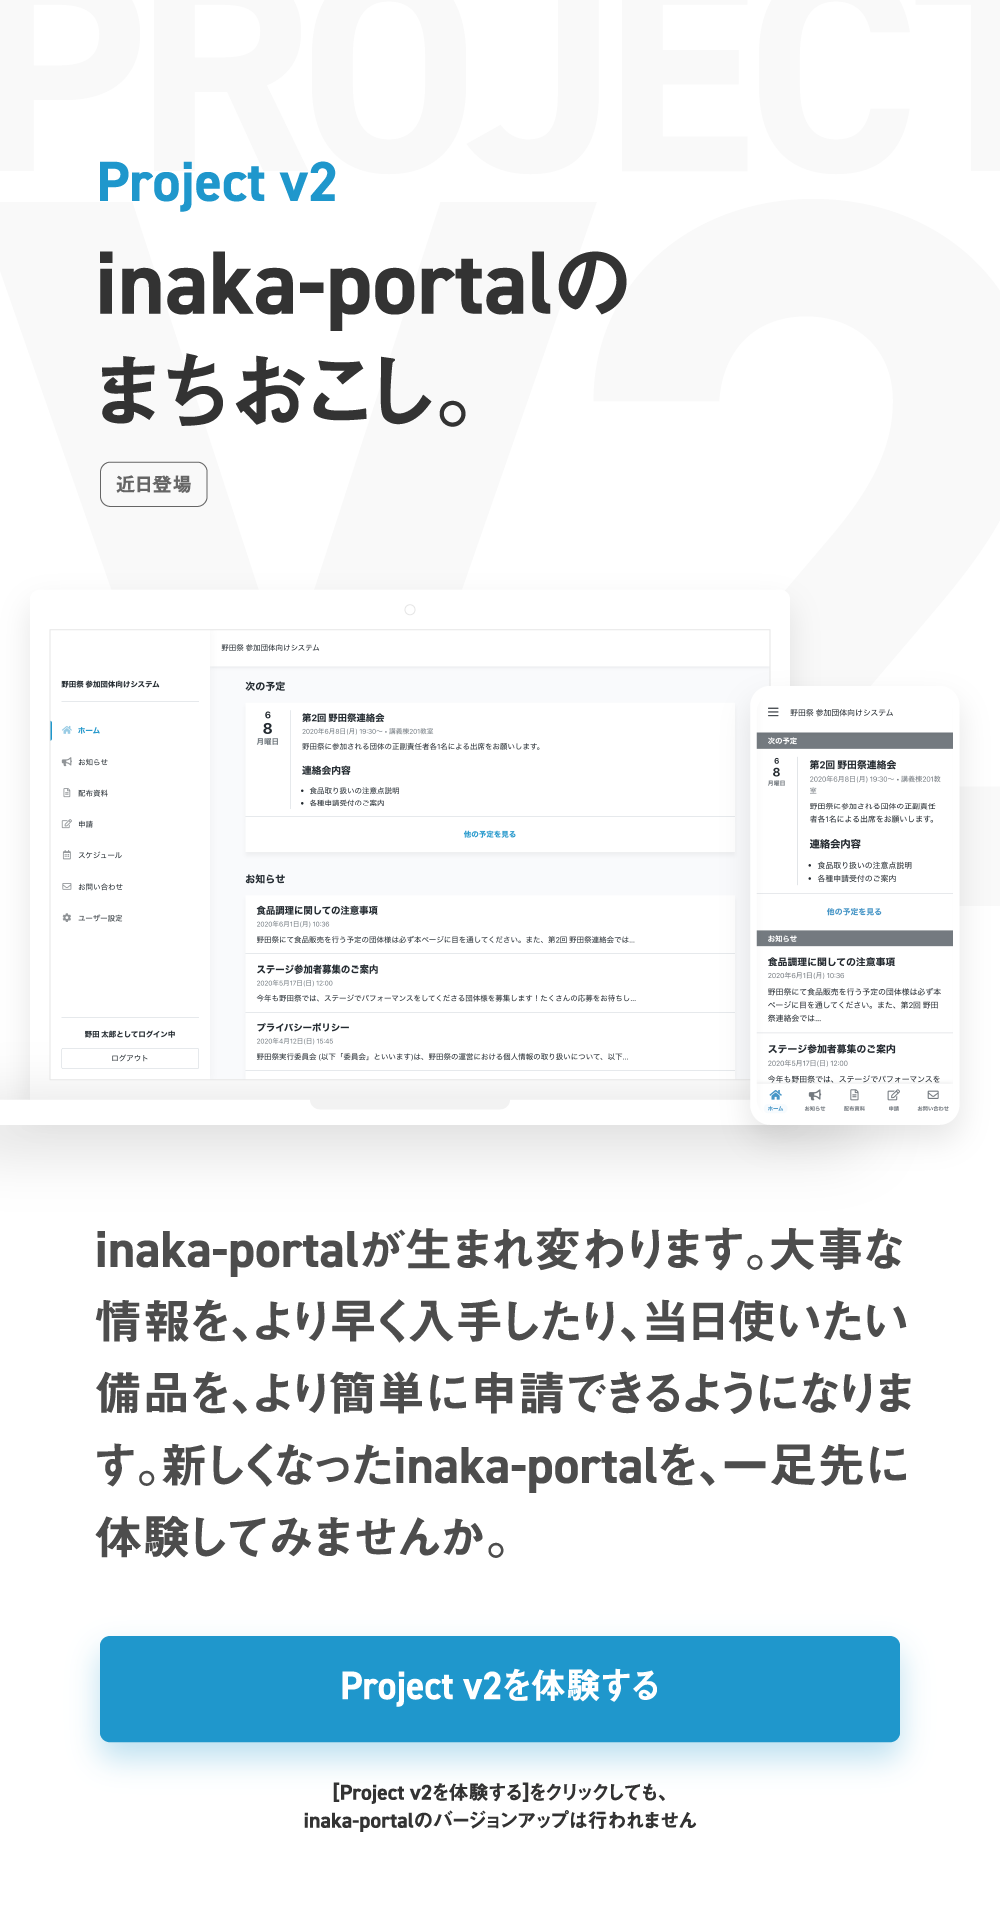
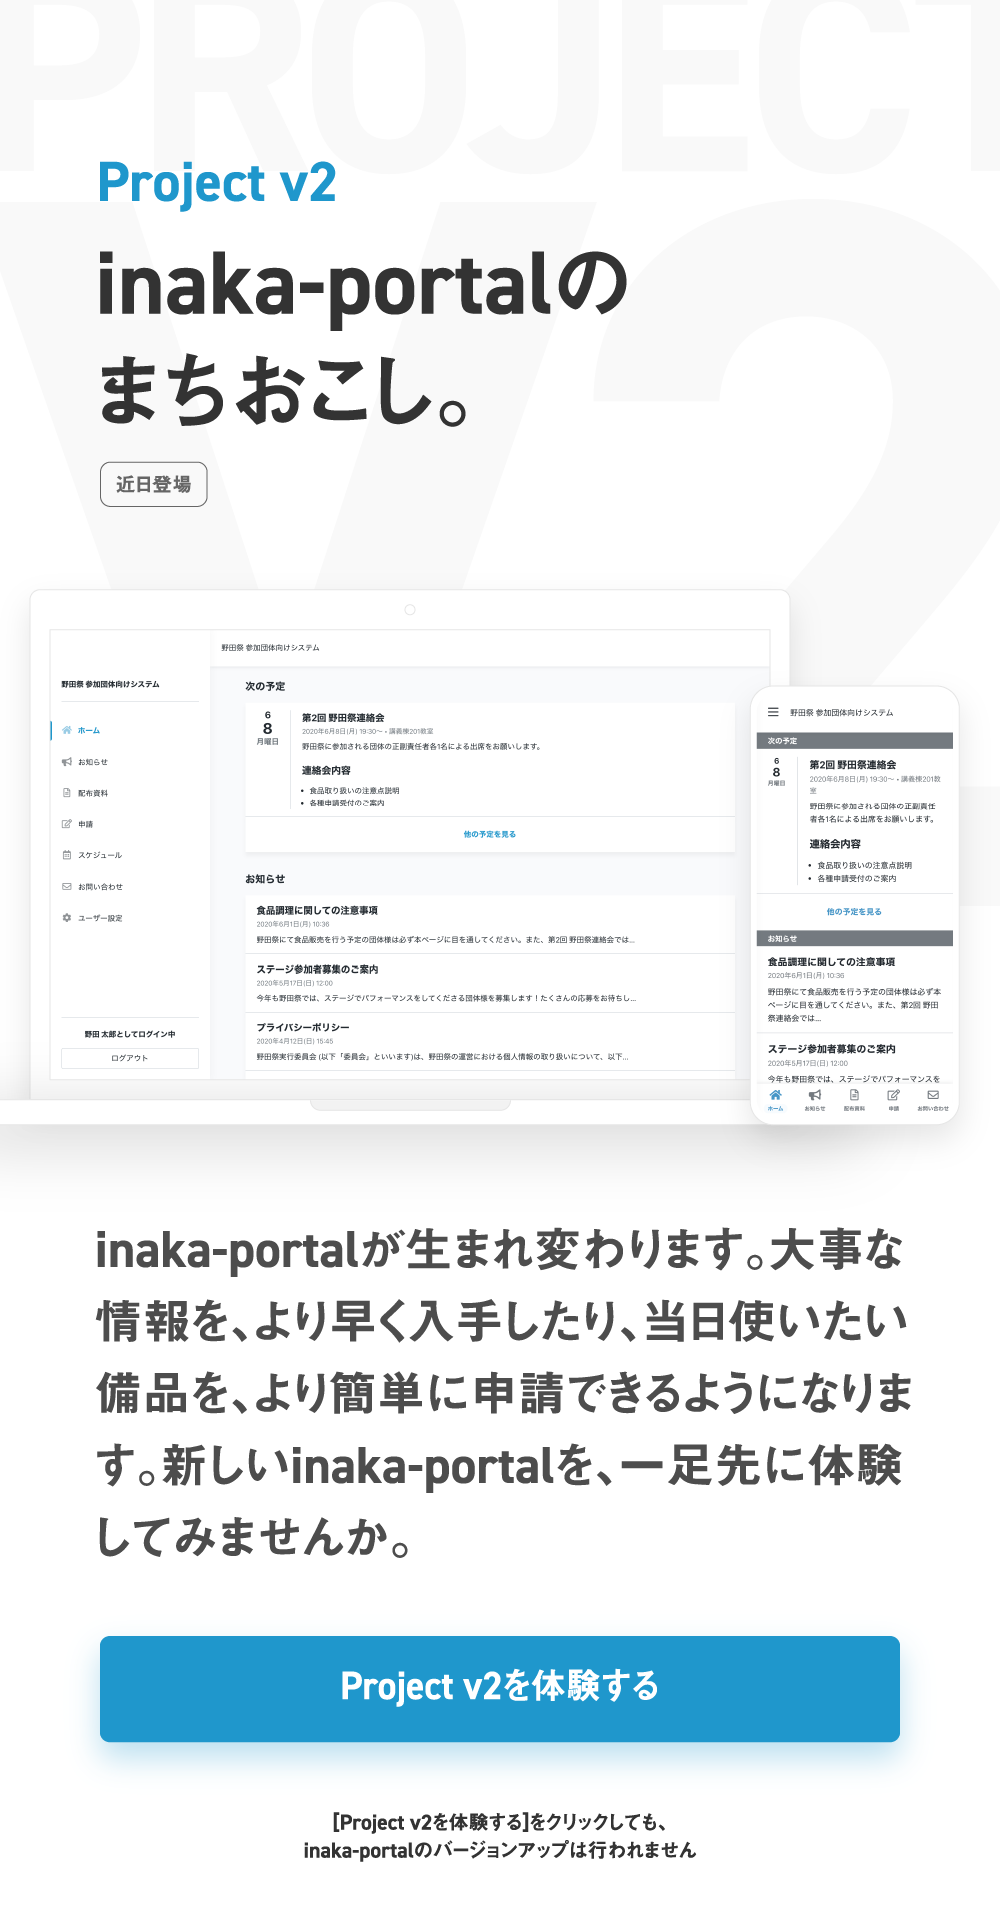
下タブの「お問い合わせ」を「予定」に変更。ついでにproject v2の紹介も修正

Changed region(s): [[0.093, 0.7453, 0.899, 0.8075], [0.31, 0.9006, 0.713, 0.9627]]

diff --git a/resources/views/v2/includes/bottom_tabs.blade.php b/resources/views/v2/includes/bottom_tabs.blade.php
@@ -26,10 +26,10 @@
             <i class="far fa-edit bottom_tabs-tab__icon"></i>
             <div class="bottom_tabs-tab__label">申請</div>
         </a>
-        <a href="{{ route('contacts') }}" class="bottom_tabs-tab{{ Request::is('contacts*') ? ' is-active' : '' }}">
-            <i class="far fa-envelope bottom_tabs-tab__icon"></i>
-            <div class="bottom_tabs-tab__label">お問い合わせ</div>
-        </a>
         @endauth
+        <a href="{{ route('schedules.index') }}" class="bottom_tabs-tab{{ Request::is('schedules*') ? ' is-active' : '' }}">
+            <i class="far fa-calendar-alt bottom_tabs-tab__icon"></i>
+            <div class="bottom_tabs-tab__label">予定</div>
+        </a>
     </div>
 </div>
